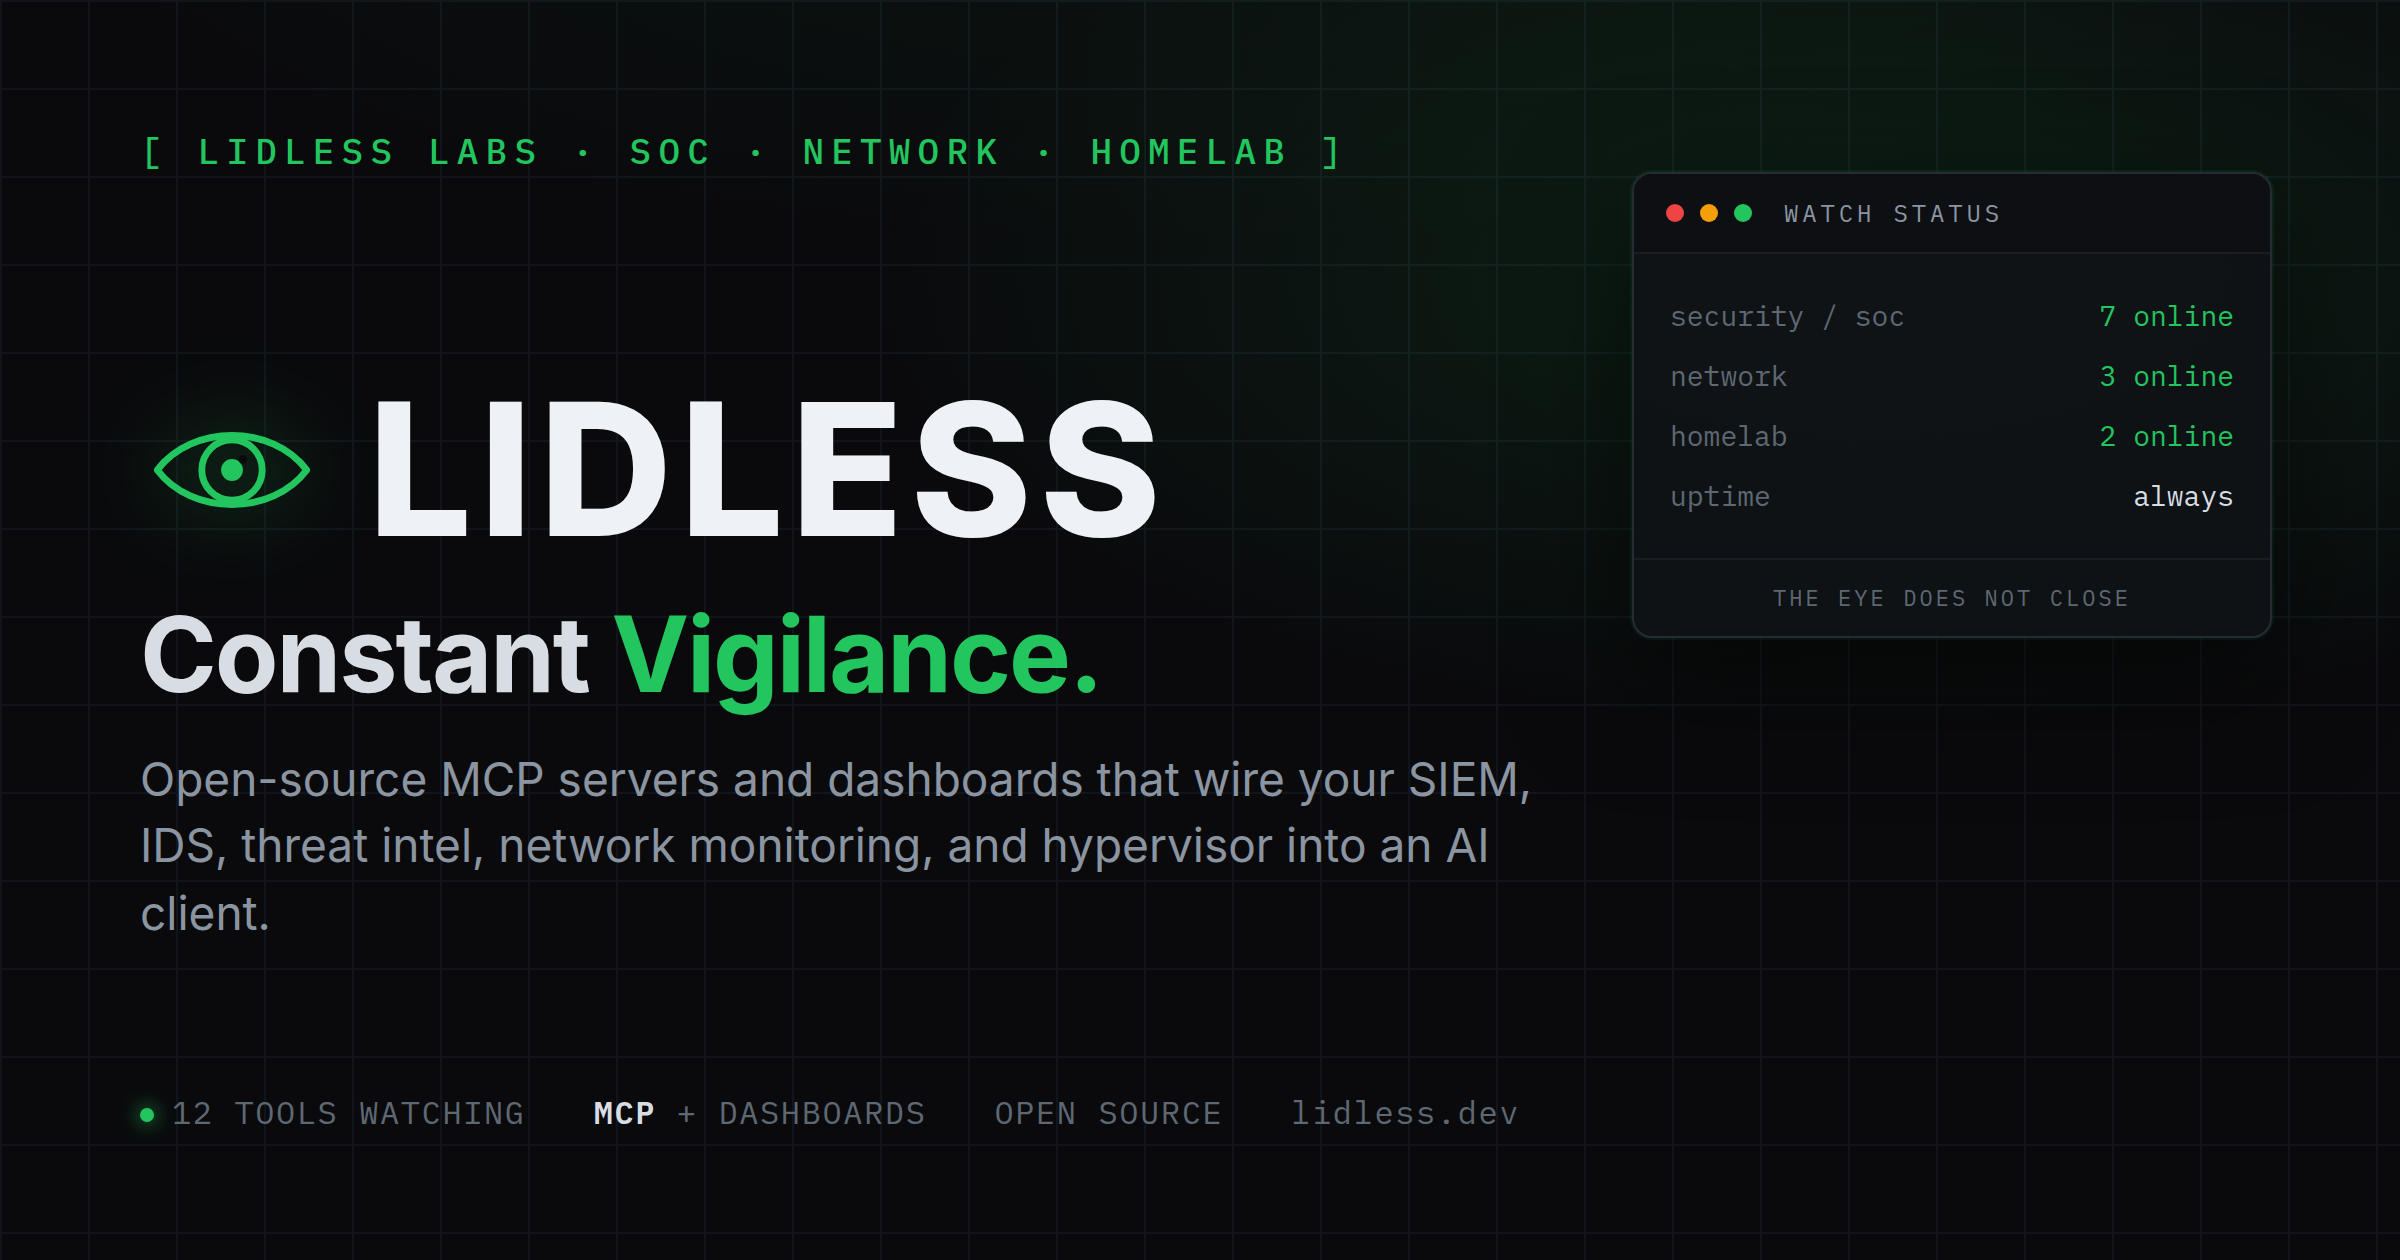
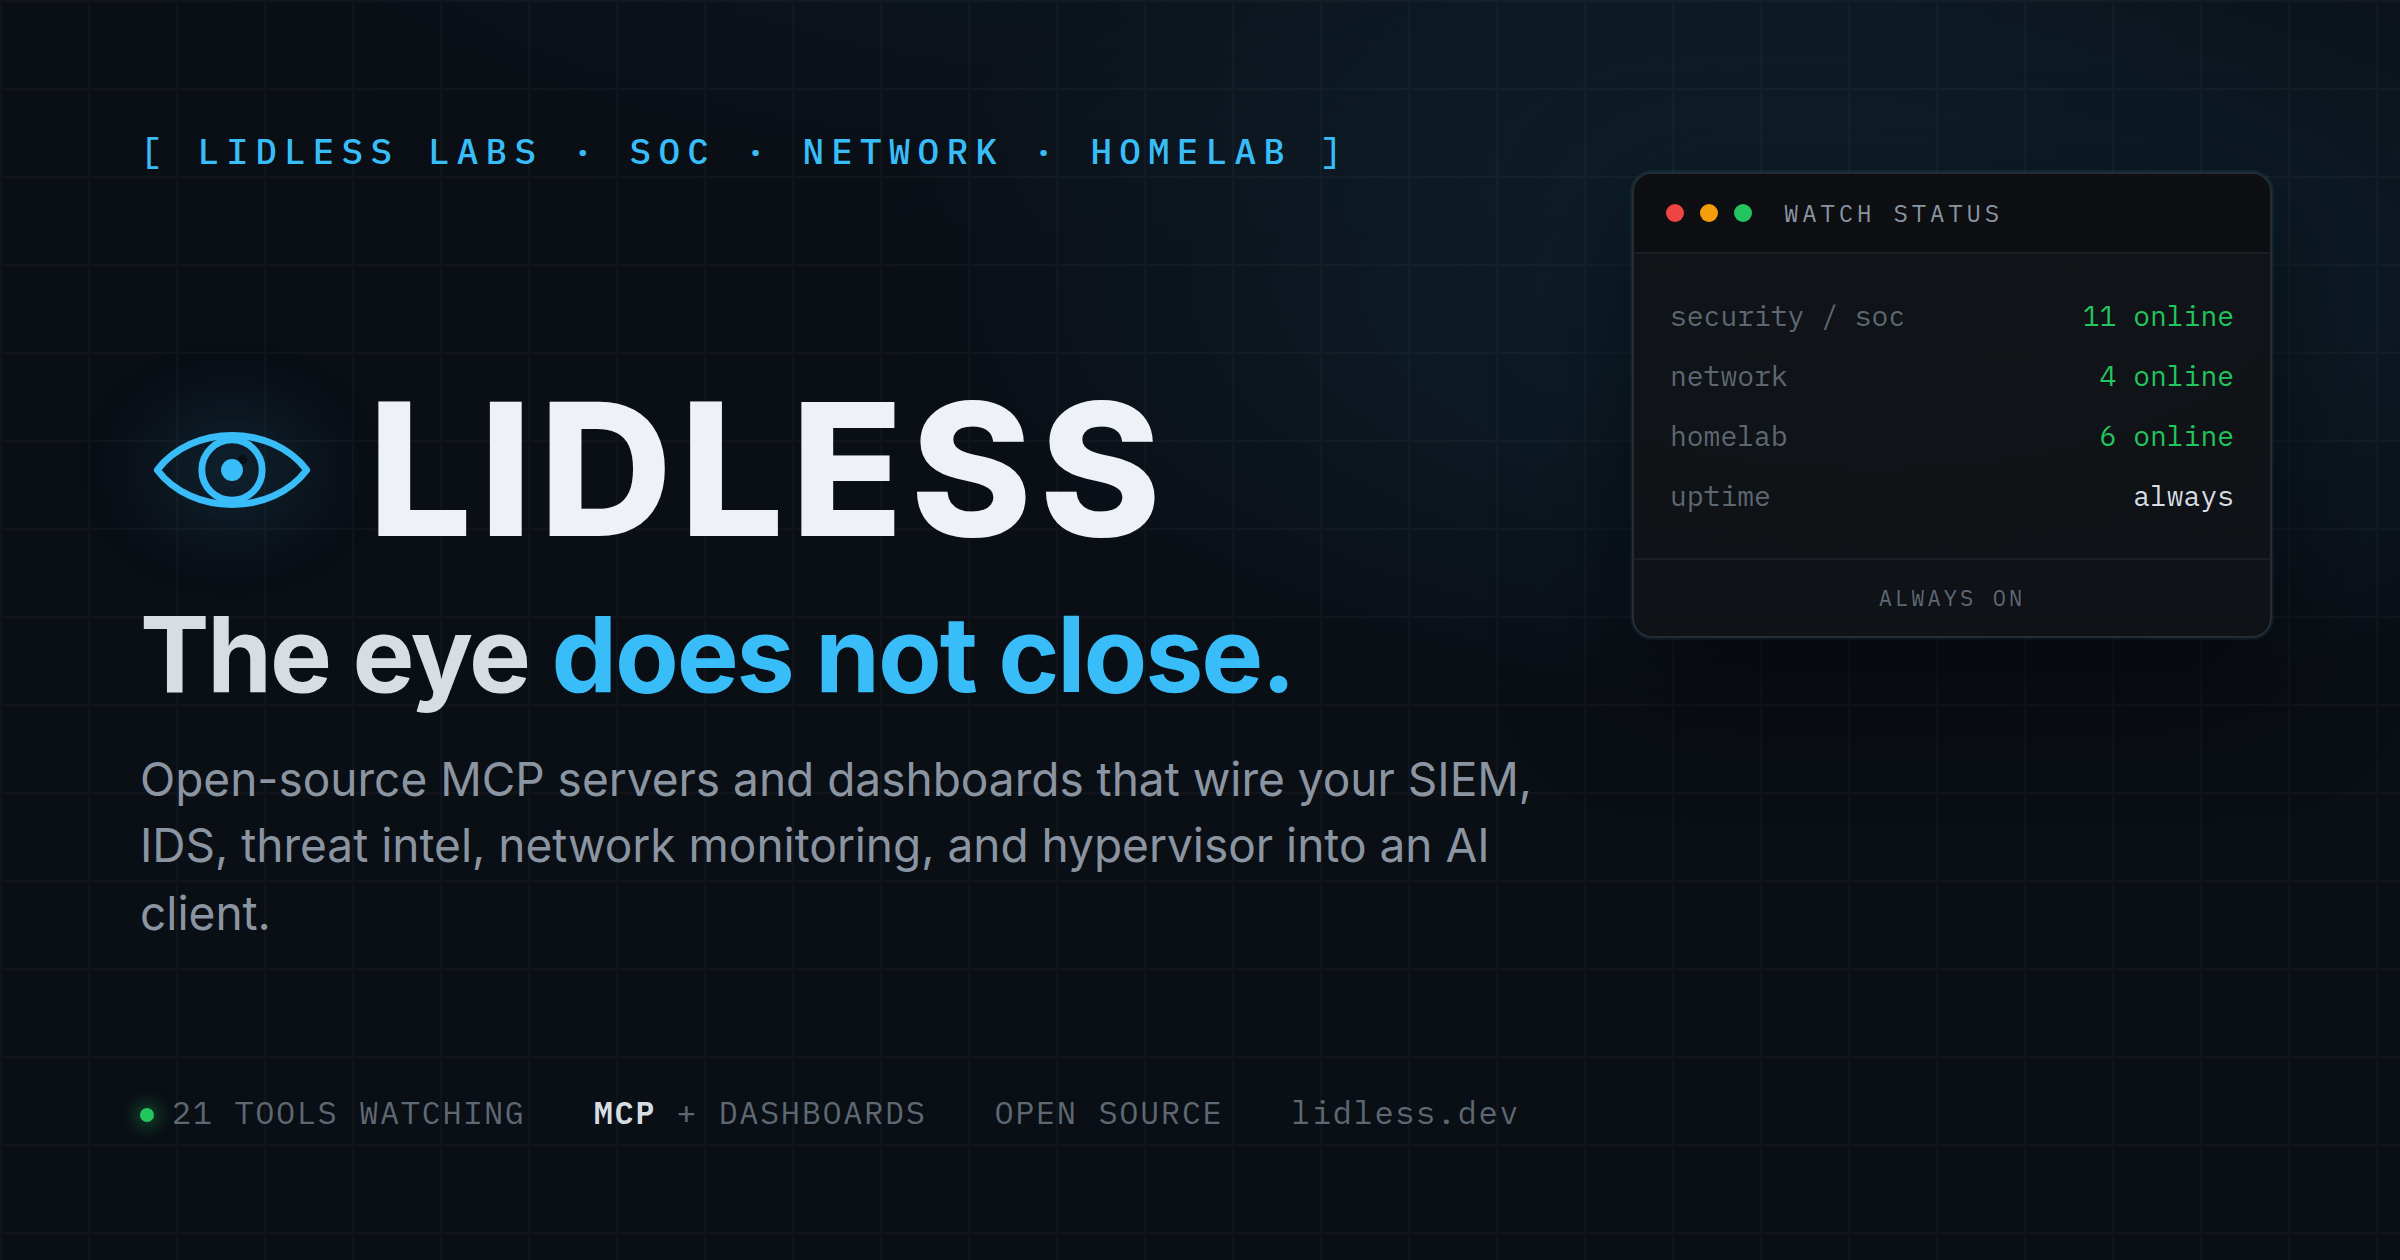
brand: de-brass the hero eye, swap motto, fix nav and footer
The hero eye keeps its cursor tracking and gains the scroll-driven gaze
for touch and mobile, but loses the brass socket, mounting bolt, rivets,
and gold hairlines. New socket: slate-steel ring with cyan seams, iris
brightened toward the brand accent.

Motto is now 'The eye does not close.' (site.ts, kicker, closing copy,
footer, OG card). Nav and footer section links are root-relative so they
work from tool pages, the category links get a mobile row instead of
disappearing, sitemap lastmod is the build date, and index cards show
tool versions from the synced VERSIONS map.

diff --git a/src/lib/site.ts b/src/lib/site.ts
@@ -1,7 +1,7 @@
 export const SITE = {
   name: 'Lidless',
   formalName: 'Lidless Labs',
-  motto: 'Constant Vigilance.',
+  motto: 'The eye does not close.',
   tagline: 'Open-source tooling that keeps watch over your stack.',
   seoTitle: 'Lidless - open-source security, netops, and homelab tooling',
   subtitle: 'The unsleeping eye over your SOC, network, and homelab',
@@ -14,9 +14,9 @@ export const SITE = {
 };
 
 export const NAV_LINKS = [
-  { label: 'Security / SOC', href: '#security' },
-  { label: 'Network', href: '#network' },
-  { label: 'Homelab', href: '#homelab' },
+  { label: 'Security / SOC', href: '/#security' },
+  { label: 'Network', href: '/#network' },
+  { label: 'Homelab', href: '/#homelab' },
   { label: 'GitHub', href: 'https://github.com/lidless-labs' },
 ];
 

diff --git a/src/styles/global.css b/src/styles/global.css
@@ -180,6 +180,11 @@ a { color: inherit; }
   letter-spacing: -0.01em;
 }
 .tool:hover .tool-name { color: var(--accent); }
+.tool-ver {
+  font-size: 0.72rem;
+  color: var(--text-dim);
+  letter-spacing: 0.02em;
+}
 .tool-desc {
   font-size: 0.84rem;
   color: var(--text-muted);

diff --git a/src/pages/sitemap.xml.ts b/src/pages/sitemap.xml.ts
@@ -2,8 +2,8 @@ import { SITE } from '../lib/site.ts';
 import { TOOL_SLUGS } from '../lib/tools.ts';
 
 // trailingSlash:'never' - emit the home page at the bare origin and each tool
-// page at /<slug> with NO trailing slash. lastmod is a fleet-wide build date.
-const LASTMOD = '2026-06-25';
+// page at /<slug> with NO trailing slash. lastmod is the build date.
+const LASTMOD = new Date().toISOString().slice(0, 10);
 
 export async function GET({ site }: { site?: URL }) {
   const origin = (site ?? new URL(SITE.url)).toString().replace(/\/+$/, '');